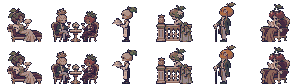
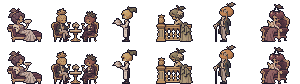
Put characters on the real floor and bake background people into the scenery
Every station, street and battle stage has a measured floor line, and
Berry, the crew, NPCs, the fruit and the dancers stand on it (following
steps and slopes) instead of a fixed row. Background people are now part
of each place: sitting, leaning and perching on its props in the scene's
own colours, smaller than the cast and only nodding, with punks lounging
on a giant boombox at Graffiti Corner. The free-standing extras and the
skater are gone.

Claude-Session: https://claude.ai/code/session_01HtPH4yiA1RL6qEeafuyuW3

diff --git a/src/explore/ambientFx.ts b/src/explore/ambientFx.ts
@@ -1,7 +1,7 @@
 import Phaser from 'phaser';
 import { PX } from '../core/config';
 import type { TimeOfDay } from '../story/types';
-import { pieceOf, seeded, type AmbientEffect, type PlacedPiece } from './ambient';
+import { liftColor, pieceOf, seeded, type AmbientEffect, type PlacedPiece } from './ambient';
 import { LIFE_SHEETS } from './lifePieces';
 
 /** Half a beat at the story's 77 BPM, for a crowd keeping time outside a battle. */
@@ -63,7 +63,17 @@ export interface LifeOptions {
   /** Screen pixels per art pixel (the background's own scale). */
   scale?: number;
   addTo?: (sprite: Phaser.GameObjects.Sprite) => void;
+  /**
+   * How far to lift whatever time-of-day tint the scene gives them toward full
+   * light once it has been applied (0 keeps it). The scene grades them like its
+   * props, which at dusk and night left people too dark to read.
+   */
+  lift?: number;
 }
+
+/** The share of the props' grade lifted off background people while exploring. */
+export const RESIDENT_LIFT = 0.4;
+
 
 /**
  * The people who live in a setting (src/explore/ambient.ts), drawn at the
@@ -97,6 +107,21 @@ export class Residents {
         .setDepth(options.depth);
       options.addTo?.(sprite);
       this.residents.push({ sprite, column, columns: sheet.pieces.length, beat: spot.beat ?? false, next: this.rest(spot.beat ?? false), frame: 0 });
+    }
+    const lift = options.lift ?? RESIDENT_LIFT;
+    if (lift > 0) {
+      // The scene grades its world after building it, so lift the result on the first frame.
+      scene.events.once(Phaser.Scenes.Events.UPDATE, () => {
+        for (const { sprite } of this.residents) {
+          if (!sprite.active) continue;
+          sprite.setTint(
+            liftColor(sprite.tintTopLeft, lift),
+            liftColor(sprite.tintTopRight, lift),
+            liftColor(sprite.tintBottomLeft, lift),
+            liftColor(sprite.tintBottomRight, lift),
+          );
+        }
+      });
     }
   }
 

diff --git a/src/play/StageFx.ts b/src/play/StageFx.ts
@@ -171,12 +171,13 @@ export class StageFx {
     if (!stop) return;
     const life = battleLife(stop.id);
     if (life.spots.length > 0) {
-      // The people take the stage's light, a shade darker so they stay behind the dancers.
-      const shade = multiplyColor(this.grade[2], 0xc8c0dc);
+      // The people take the stage's light, lifted a little so they read, and stay smaller and duller than the dancers.
+      const shade = mixColor(this.grade[2], 0xffffff, 0.35);
       this.extras = new Residents(this.scene, life.spots.map((spot) => placePiece(spot, key, 'battle')), {
         depth: 0,
         calm: this.calm,
         seed: stop.number,
+        lift: 0,
         addTo: (sprite) => {
           sprite.setTint(shade);
           this.backWall.add(sprite);

diff --git a/src/explore/ambient.ts b/src/explore/ambient.ts
@@ -247,3 +247,12 @@ export function seeded(seed: number): () => number {
 export function stopSeed(stop: Pick<StopDef, 'number'>, kind: PlaceKind): number {
   return stop.number * 7 + (kind === 'street' ? 3 : 1);
 }
+
+/** A tint lifted toward full light by a share (0 keeps it, 1 is white). */
+export function liftColor(color: number, t: number): number {
+  const channel = (shift: number) => {
+    const v = (color >> shift) & 0xff;
+    return Math.round(v + (255 - v) * t);
+  };
+  return (channel(16) << 16) | (channel(8) << 8) | channel(0);
+}

diff --git a/tests/ambient.test.ts b/tests/ambient.test.ts
@@ -97,3 +97,12 @@ describe('the people baked into the scenery', () => {
     expect(a).toEqual(b);
   });
 });
+
+describe('background people lighting', () => {
+  it('lifts a tint toward full light by the given share', async () => {
+    const { liftColor } = await import('../src/explore/ambient');
+    expect(liftColor(0x000000, 0.5)).toBe(0x808080);
+    expect(liftColor(0x406080, 0)).toBe(0x406080);
+    expect(liftColor(0x406080, 1)).toBe(0xffffff);
+  });
+});

diff --git a/tools/build_life.py b/tools/build_life.py
@@ -11,9 +11,10 @@ crew lounging on a giant boombox) on a transparent background. This script:
 1. finds the pieces (connected blobs, with nearby bits such as a "zzz" merged in),
 2. turns each into real pixel art at the model's own art-pixel size, so the
    people come out at the same scale as the backgrounds they were drawn for,
-3. makes them low key: colours are pulled toward the setting's shadows and
-   desaturated before being snapped to the setting's own palette, so they sit
-   in the scene instead of on top of it,
+3. makes them low key but readable: colours are pulled a little toward the
+   setting's shadows and desaturated, each piece keeps its own small palette
+   (so faces, hands and props stay readable), and the silhouette gets a dark
+   rim in the scene's shadow hue, so they sit in the scene without vanishing,
 4. writes a sheet public/assets/img/life_<theme>.png with one column per piece
    and two rows: at rest, and a one-pixel nod of the top of the piece (heads),
    which src/explore/ambientFx.ts plays slowly while exploring and on the beat
@@ -39,23 +40,30 @@ TS = ROOT / "src" / "explore" / "lifePieces.ts"
 # theme: (background the palette comes from, piece names in reading order, extra shrink for sheets drawn larger or None,
 #         how much the colours are pulled into the scene's shadows)
 THEMES = {
-    "graffiti": ("stage_street", ["boombox_crew"], 1.45, 0.22),
-    "stack": ("stage_street", ["speaker_stack", "small_boombox", "tagger", "fence_sitter"], None, 0.22),
-    "commuters": ("station_peel_street", ["newspaper", "dozing", "headphones", "coffee_lean", "suitcase_sitter", "two_friends", "map_reader", "cat_on_bag"], None, 0.2),
-    "town": ("station_berry_town", ["bird_feeder", "wall_cat", "sweeper", "knitter", "waiting_kid", "porter"], None, 0.18),
-    "market": ("street_lantern_market", ["tea_seller", "tea_drinkers", "browser", "lantern_kid", "fanning_elder", "steamer_cook"], None, 0.18),
-    "lab": ("stage_lab", ["test_tube", "clipboard", "microscope", "yawner", "pourer", "robot"], None, 0.2),
-    "club": ("stage_club", ["dancer_a", "dancer_b", "dancer_c", "dancer_d", "dancer_e", "bartender", "bar_stools", "slow_dance"], None, 0.1),
-    "food": ("street_rooftop", ["noodle_pair", "pot_cook", "slurper", "pan_cook", "skewer_kid", "chin_rest"], None, 0.18),
-    "tunnel": ("street_the_tunnel", ["thermos", "sandbags", "shovel", "sleeper", "cone", "toolbox"], None, 0.22),
-    "plaza": ("street_orange_plaza", ["glowstick", "clapper", "drink", "foam_finger", "cap", "chin_hands", "shoulders", "sign"], None, 0.2),
-    "posh": ("street_pineapple_hall", ["chaise", "cocktails", "waiter", "balustrade", "monocle", "armchair"], None, 0.18),
-    "grand": ("stage_grand_stage", ["cable_hand", "clipboard_hand", "camera", "fans_four", "fans_three", "security"], None, 0.08),
-    "town_streets": ("street_peel_street", ["cafe", "crate_kid", "bench_lady", "lamp_reader", "picker", "juice_pair", "shop_sweeper", "dog"], None, 0.18),
+    "graffiti": ("stage_street", ["boombox_crew"], 1.45, 0.06),
+    "stack": ("stage_street", ["speaker_stack", "small_boombox", "tagger", "fence_sitter"], None, 0.06),
+    "commuters": ("station_peel_street", ["newspaper", "dozing", "headphones", "coffee_lean", "suitcase_sitter", "two_friends", "map_reader", "cat_on_bag"], None, 0.1),
+    "town": ("station_berry_town", ["bird_feeder", "wall_cat", "sweeper", "knitter", "waiting_kid", "porter"], None, 0.08),
+    "market": ("street_lantern_market", ["tea_seller", "tea_drinkers", "browser", "lantern_kid", "fanning_elder", "steamer_cook"], None, 0.08),
+    "lab": ("stage_lab", ["test_tube", "clipboard", "microscope", "yawner", "pourer", "robot"], None, 0.1),
+    "club": ("stage_club", ["dancer_a", "dancer_b", "dancer_c", "dancer_d", "dancer_e", "bartender", "bar_stools", "slow_dance"], None, 0.06),
+    "food": ("street_rooftop", ["noodle_pair", "pot_cook", "slurper", "pan_cook", "skewer_kid", "chin_rest"], None, 0.05),
+    "tunnel": ("street_the_tunnel", ["thermos", "sandbags", "shovel", "sleeper", "cone", "toolbox"], None, 0.1),
+    "plaza": ("street_orange_plaza", ["glowstick", "clapper", "drink", "foam_finger", "cap", "chin_hands", "shoulders", "sign"], None, 0.08),
+    "posh": ("street_pineapple_hall", ["chaise", "cocktails", "waiter", "balustrade", "monocle", "armchair"], None, 0.08),
+    "grand": ("stage_grand_stage", ["cable_hand", "clipboard_hand", "camera", "fans_four", "fans_three", "security"], None, 0.05),
+    "town_streets": ("street_peel_street", ["cafe", "crate_kid", "bench_lady", "lamp_reader", "picker", "juice_pair", "shop_sweeper", "dog"], None, 0.08),
 }
 
-# Pull toward the scene's shadow colour and lose some saturation, so extras never outshine the cast.
-DESATURATE = 0.3
+# Pull toward the scene's shadow colour and lose some saturation, so extras never outshine the cast,
+# but only a little: they must still read as people doing things at true size.
+DESATURATE = 0.18
+# Each piece keeps its own small palette (snapping to the background's palette smeared faces and hands),
+# and its silhouette gets a dark rim in the scene's shadow colour so it reads against busy art.
+PIECE_COLOURS = 24
+RIM_DARKEN = 0.5
+# Pieces whose source came out darker than their scene: brightened a little before the rest.
+BRIGHTEN = {"graffiti": 1.25, "stack": 1.2, "tunnel": 1.1}
 NOD_SHARE = 0.34
 # Background people are about two thirds of the cast's height (a standing extra is about 34 art pixels).
 SHRINK = 1.55
@@ -105,16 +113,35 @@ def shadow_colour(background: str) -> np.ndarray:
     return px[lum <= np.percentile(lum, 25)].mean(axis=0)
 
 
-def low_key(sprite: np.ndarray, shade: np.ndarray, pull: float, palette: np.ndarray) -> np.ndarray:
+def low_key(sprite: np.ndarray, shade: np.ndarray, pull: float, palette: np.ndarray, brighten: float = 1.0) -> np.ndarray:
     out = sprite.copy()
     solid = out[..., 3] > 0
-    rgb = out[..., :3].astype(np.float64)
+    rgb = np.clip(out[..., :3].astype(np.float64) * brighten, 0, 255)
     grey = (rgb @ [0.3, 0.59, 0.11])[..., None]
     rgb = rgb * (1 - DESATURATE) + grey * DESATURATE
     rgb = rgb * (1 - pull) + shade * pull
+    # A dark rim on the silhouette, in the scene's own shadow hue.
+    inner = ndimage.binary_erosion(solid, structure=np.array([[0, 1, 0], [1, 1, 1], [0, 1, 0]]))
+    rim = solid & ~inner
+    dark = np.minimum(rgb, shade * RIM_DARKEN)
+    rgb[rim] = np.minimum(rgb[rim], dark[rim] + 8)
     out[..., :3] = np.clip(np.round(rgb), 0, 255).astype(np.uint8)
     out[~solid] = 0
-    return ps.snap_to_palette(out, palette)
+    return own_palette(out)
+
+
+def own_palette(sprite: np.ndarray) -> np.ndarray:
+    """Reduce a piece to its own few colours: flat pixel-art areas without losing small details."""
+    solid = sprite[..., 3] > 0
+    if not solid.any():
+        return sprite
+    rgb = Image.fromarray(sprite[..., :3].astype(np.uint8))
+    q = rgb.quantize(colors=PIECE_COLOURS, method=Image.MEDIANCUT, dither=Image.NONE).convert("RGB")
+    out = sprite.copy()
+    out[..., :3] = np.array(q)
+    out[~solid] = 0
+    out[..., 3] = np.where(solid, 255, 0)
+    return out
 
 
 def nod(sprite: np.ndarray) -> np.ndarray:
@@ -153,7 +180,7 @@ def build(theme: str) -> dict:
         p = art_pixel(cell) * SHRINK * (size or 1.0)
         sprite = ps.sample(cell, p, p / 2, p / 2)
         sprite = ps.drop_specks(sprite, 6)
-        sprite = trim(low_key(sprite, shade, pull, palette))
+        sprite = trim(low_key(sprite, shade, pull, palette, BRIGHTEN.get(theme, 1.0)))
         sprites.append(sprite)
     cw = int(np.ceil(max(s.shape[1] for s in sprites) / 8) * 8) + 2
     ch = int(np.ceil(max(s.shape[0] for s in sprites) / 8) * 8) + 2
